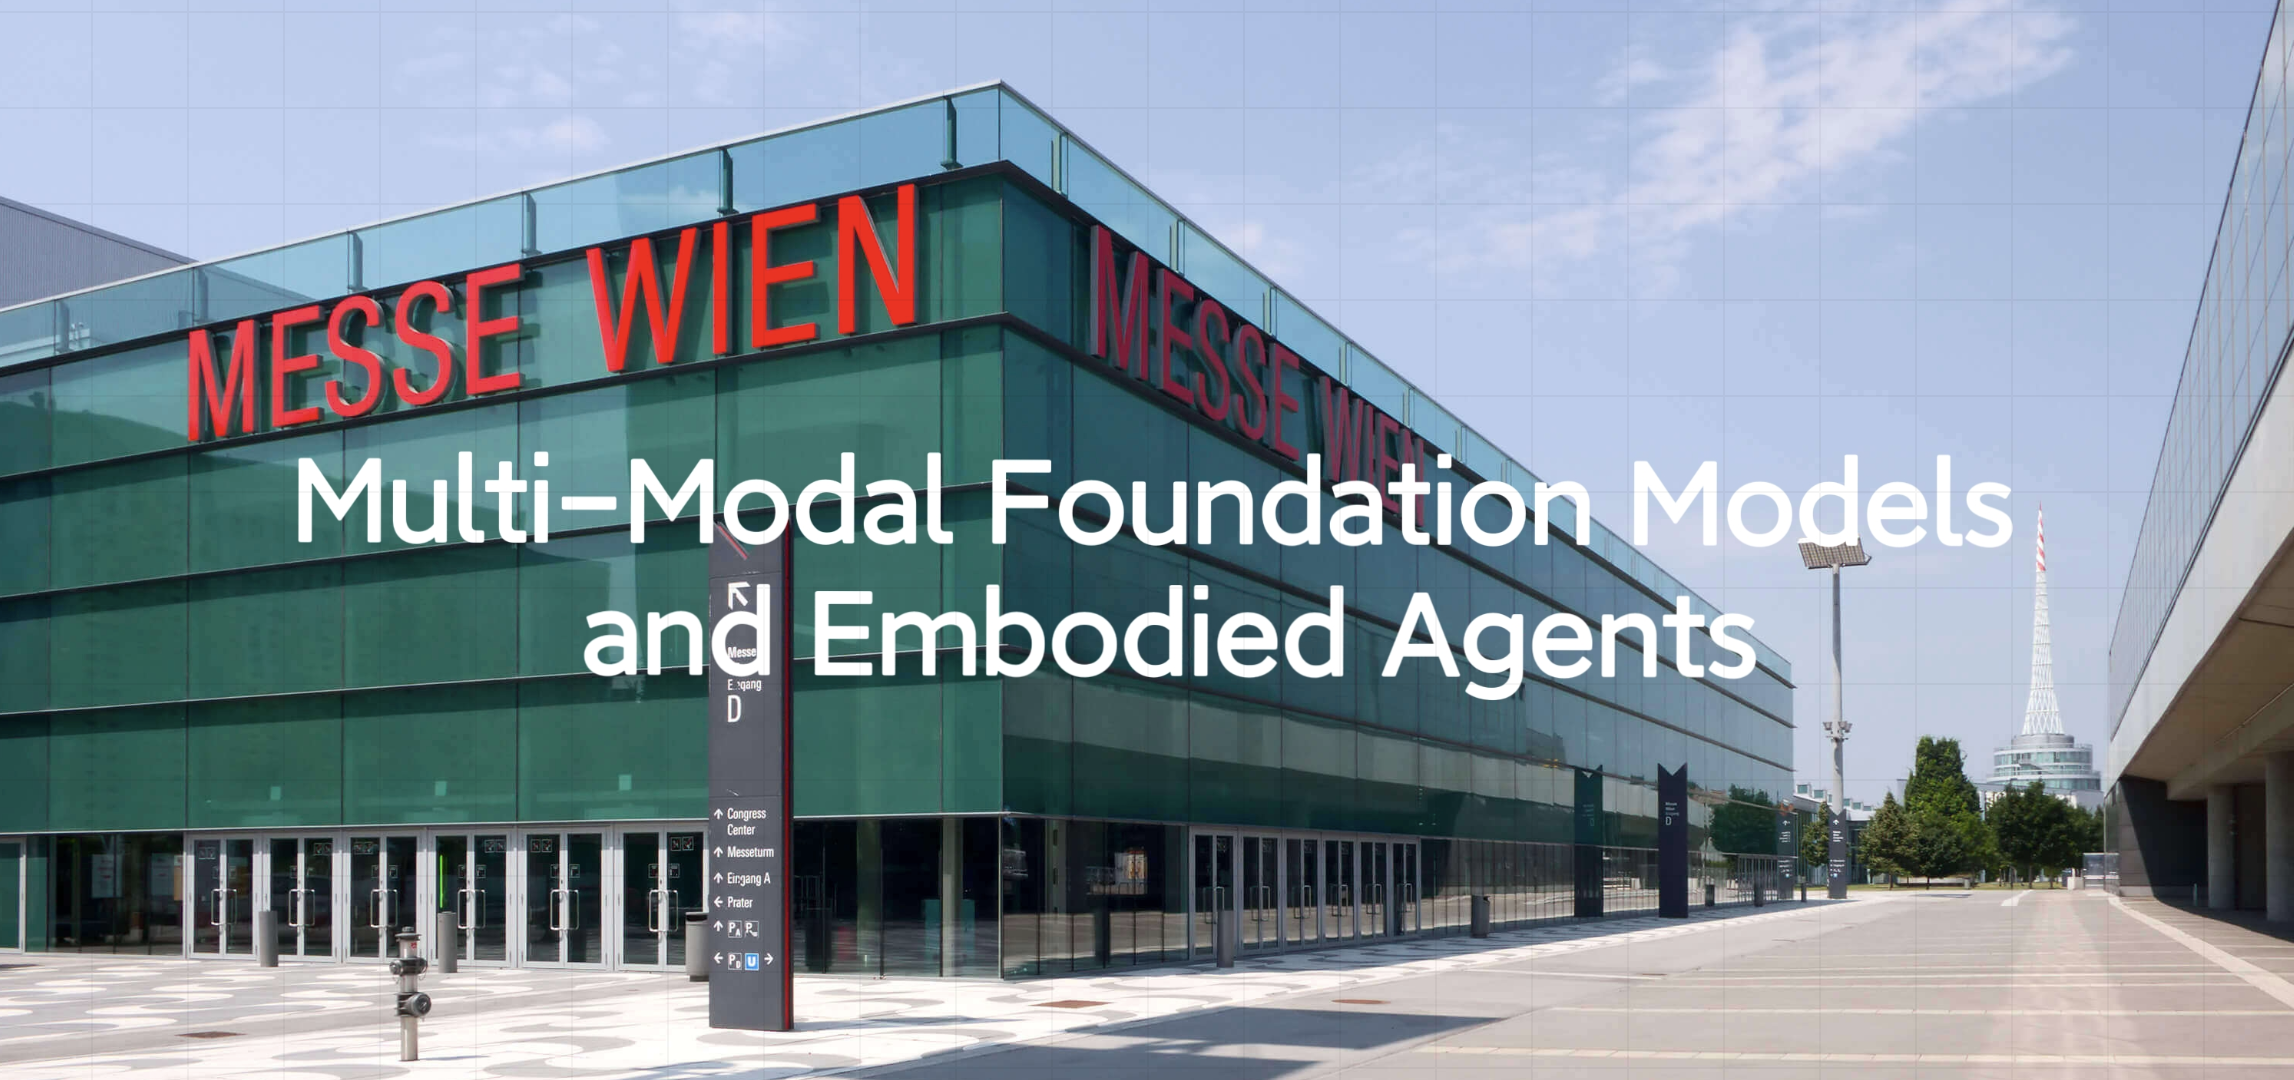
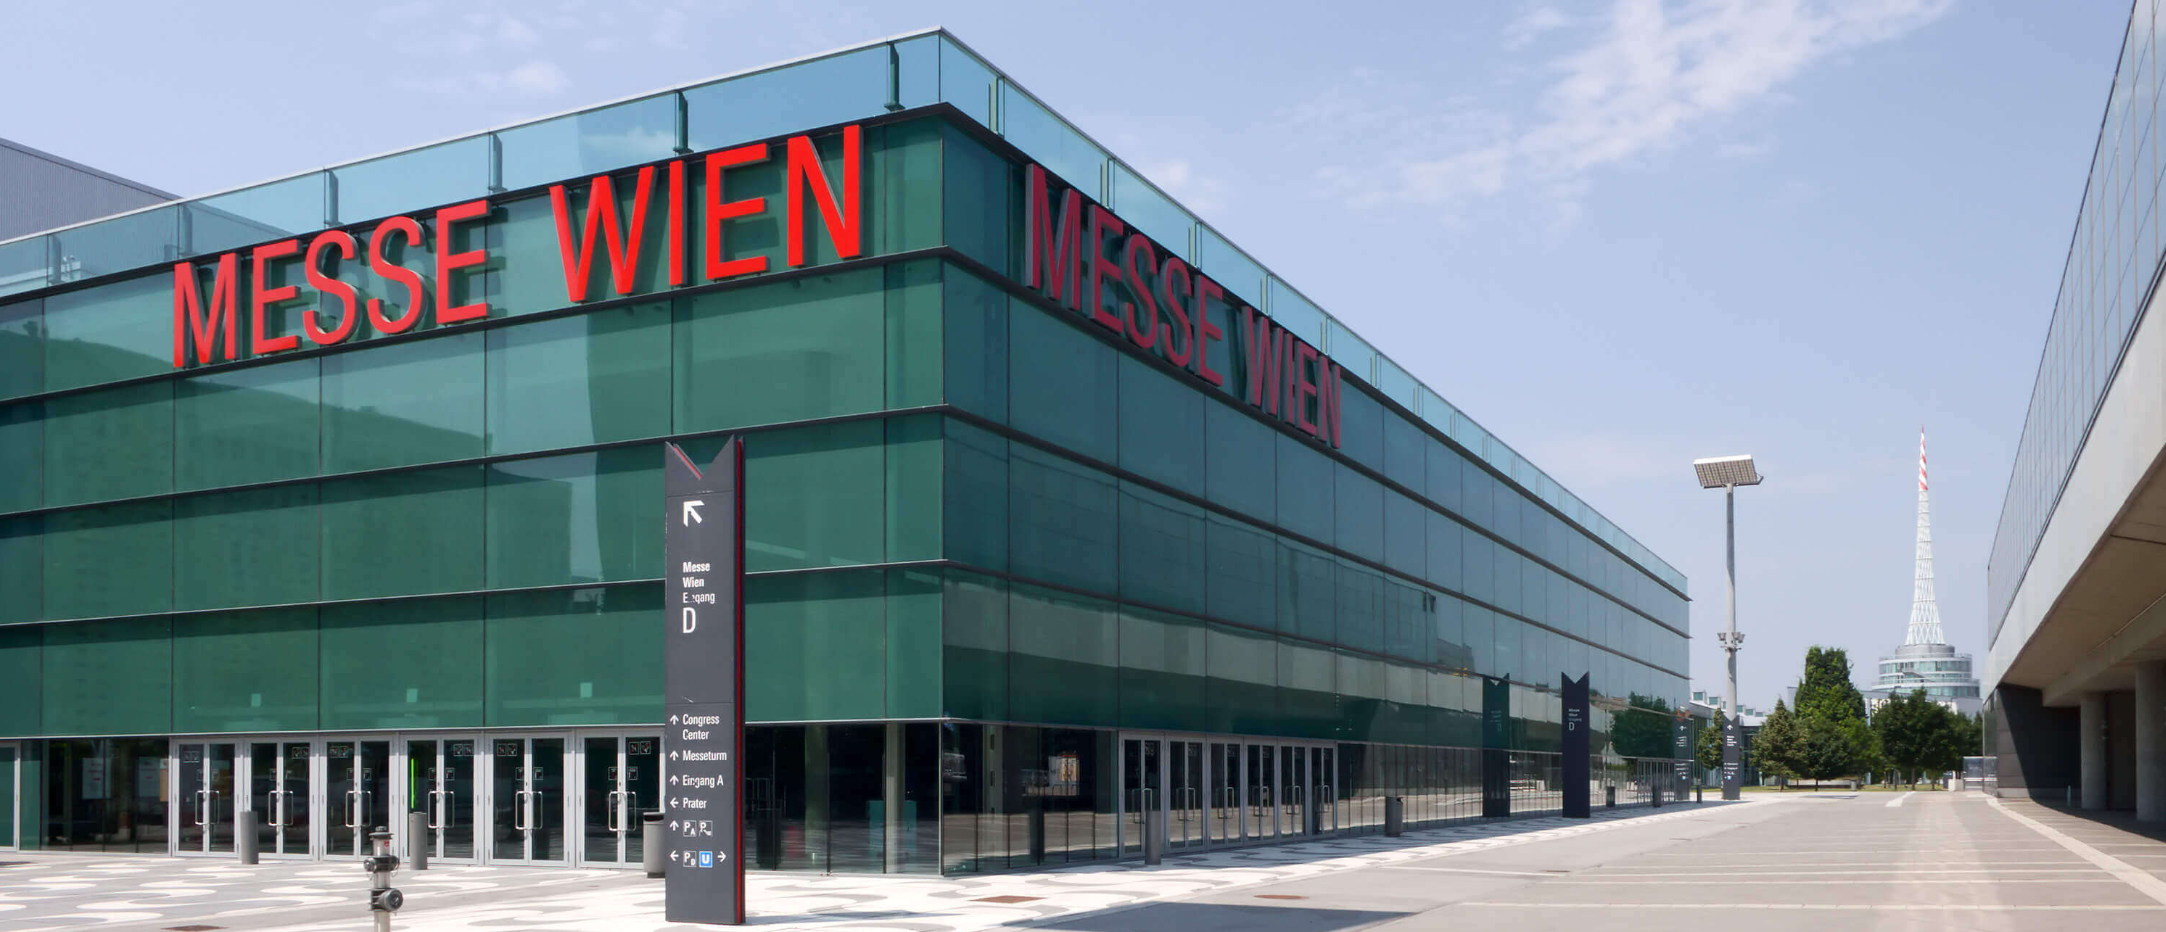
update a lot

diff --git a/src/pages/Research.tsx b/src/pages/Research.tsx
@@ -20,6 +20,7 @@ interface PAPER {
   pub: string;
   link: string;
   containerId: string;
+  tags: any;
 }
 const publications: PAPER[] = [
   {
@@ -28,20 +29,22 @@ const publications: PAPER[] = [
       'MP5: A Multi-modal Open-ended Embodied System in Minecraft via Active Perception',
     image: '/img/MP5.png',
     author:
-      'Yiran Qin*, Enshen Zhou*, Qichang Liu*, Zhenfei Yin, Lu Sheng†, Ruimao Zhang†, Yu Qiao, Jing Shao',
-    pub: 'CVPR(IEEE Conference on Computer Vision and Pattern Recognition) 2024',
+      'Yiran Qin*, Enshen Zhou*, Qichang Liu*, Zhenfei Yin, Lu Sheng†, Ruimao Zhang†, Yu Qiao, Jing Shao‡',
+    pub: 'CVPR (The IEEE/CVF Conference on Computer Vision and Pattern Recognition), 2024',
     link: 'https://iranqin.github.io/MP5.github.io/',
     containerId: 'MP5',
+    tags: ['Simulation', 'MineCraft', 'Planning', 'MLLM'],
   },
   {
     id: '/paper_list/Octavius',
     title: 'Octavius: Mitigating Task Interference in MLLMs via MoE',
     image: '/logo/Octavius_arch.png',
     author:
-      'Zeren Chen*, Ziqin Wang*, Zhen Wang*, Huayang Liu, Zhenfei Yin, Si Liu, Lu Sheng†, Wanli Ouyang, Yu Qiao, Jing Shao†',
-    pub: 'ICLR (INTERNATIONAL CONFERENCE ON LEARNING REPRESENTATIONS), 2024',
+      'Zeren Chen*, Ziqin Wang*, Zhen Wang*, Huayang Liu, Zhenfei Yin‡, Si Liu, Lu Sheng†, Wanli Ouyang, Yu Qiao, Jing Shao†',
+    pub: 'ICLR (The International Conference on Learning Representations), 2024',
     link: 'https://arxiv.org/abs/2306.06687',
     containerId: 'Octavius',
+    tags: ['MLLM', 'Trainning', '3D Vision'],
   },
   {
     id: 'https://arxiv.org/abs/2401.15071',
@@ -51,10 +54,11 @@ const publications: PAPER[] = [
       'From GPT-4 to Gemini and Beyond: Assessing the Landscape of MLLMs on Generalizability, Trustworthiness and Causality through Four Modalities',
     image: '/img/MLLMs.png',
     author:
-      'Chaochao Lu, Chen Qian, Guodong Zheng, Hongxing Fan, Hongzhi Gao, Jie Zhang, Jing Shao, Jingyi Deng, Jinlan Fu, Kexin Huang, Kunchang Li, Lijun Li, Limin Wang, Lu Sheng, Meiqi Chen, Ming Zhang, Qibing Ren, Sirui Chen, Tao Gui, Wanli Ouyang, Yali Wang, Yan Teng, Yaru Wang, Yi Wang, Yinan He, Yingchun Wang, Yixu Wang, Yongting Zhang, Yu Qiao, Yujiong Shen, Yurong Mou, Yuxi Chen, Zaibin Zhang, Zhelun Shi, Zhenfei Yin, Zhipin Wang',
-    pub: 'Arxiv, 2024',
+      'Chaochao Lu, Chen Qian, Guodong Zheng, Hongxing Fan, Hongzhi Gao, Jie Zhang, Jing Shao†, Jingyi Deng, Jinlan Fu, Kexin Huang, Kunchang Li, Lijun Li, Limin Wang, Lu Sheng, Meiqi Chen, Ming Zhang, Qibing Ren, Sirui Chen, Tao Gui, Wanli Ouyang, Yali Wang, Yan Teng, Yaru Wang, Yi Wang, Yinan He, Yingchun Wang, Yixu Wang, Yongting Zhang, Yu Qiao†, Yujiong Shen, Yurong Mou, Yuxi Chen, Zaibin Zhang, Zhelun Shi, Zhenfei Yin‡, Zhipin Wang',
+    pub: 'Technical Report, 2024',
     link: 'https://arxiv.org/abs/2401.15071',
     containerId: 'MLLMs',
+    tags: ['MLLM', 'Evaluation', 'Human Value', 'Casual Reasoning'],
   },
   {
     id: 'https://sites.google.com/view/rh20t-primitive/main',
@@ -62,10 +66,11 @@ const publications: PAPER[] = [
       'RH20T-P: A Primitive-Level Robotic Dataset Towards Composable Generalization Agents',
     image: '/img/rh20t.png',
     author:
-      'Zeren Chen, Zhelun Shi, Xiaoya Lu, Lehan He, Sucheng Qian, Hao Shu Fang, Zhenfei Yin, Wanli Ouyang, Jing Shao, Yu Qiao, Cewu Lu, Lu Sheng',
+      'Zeren Chen*, Zhelun Shi*, Xiaoya Lu*, Lehan He*, Sucheng Qian, Hao Shu Fang, Zhenfei Yin‡, Wanli Ouyang, Jing Shao†, Yu Qiao, Cewu Lu†, Lu Sheng†',
     pub: 'Arxiv 2024',
     link: 'https://sites.google.com/view/rh20t-primitive/main',
     containerId: 'rh20t',
+    tags: ['Robot Arm', 'Manipulation', 'MLLM', 'Planning', 'Executing'],
   },
   {
     id: 'https://openlamm.github.io/ch3ef/',
@@ -73,10 +78,11 @@ const publications: PAPER[] = [
       'Assessment of Multimodal Large Language Models in Alignment with Human Values',
     image: '/img/ch3ef.png',
     author:
-      'Zhelun Shi, Zhipin Wang, Hongxing Fan, Zaibin Zhang, Lijun Li, Yongting Zhang, Zhenfei Yin, Lu Sheng, Yu Qiao, Jing Shao',
+      'Zhelun Shi*, Zhipin Wang*, Hongxing Fan*, Zaibin Zhang, Lijun Li, Yongting Zhang, Zhenfei Yin, Lu Sheng†, Yu Qiao, Jing Shao†',
     pub: 'Arxiv 2024',
     link: 'https://openlamm.github.io/ch3ef/',
     containerId: 'ch3ef',
+    tags: ['MLLM', 'Evaluation', 'Human Value'],
   },
   {
     id: 'https://sites.google.com/view/minedreamer/main',
@@ -84,10 +90,11 @@ const publications: PAPER[] = [
       'MineDreamer: Learning to Follow Instructions via Chain-of-Imagination for Simulated-World Control ',
     image: '/img/mineDreamer.png',
     author:
-      'Enshen Zhou, Yiran Qin, Zhenfei Yin, Yuzhou Huang, Ruimao Zhang, Lu Sheng, Yu Qiao, Jing Shao',
+      'Enshen Zhou*, Yiran Qin*, Zhenfei Yin, Yuzhou Huang, Ruimao Zhang†, Lu Sheng†, Yu Qiao, Jing Shao‡',
     pub: 'Arxiv 2024',
     link: 'https://sites.google.com/view/minedreamer/main',
     containerId: 'mineDreamer',
+    tags: ['Simulation', 'MineCraft', 'MLLM', ' World Model', 'Executing'],
   },
   {
     id: '/paper_list/ChEF',
@@ -99,6 +106,7 @@ const publications: PAPER[] = [
     pub: 'Arxiv, 2023',
     link: 'https://arxiv.org/abs/2306.06687',
     containerId: 'ChEF',
+    tags: ['MLLM', 'Evaluation'],
   },
   {
     id: '/paper_list/LAMM',
@@ -107,9 +115,10 @@ const publications: PAPER[] = [
     image: '/img/LAMM.png',
     author:
       'Zhenfei Yin*, Jiong Wang*, JianJian Cao*, Zhelun Shi*,  Dingning Liu, Mukai Li, Lu Sheng, Lei Bai†, Xiaoshui Huang, Zhiyong Wang, Jing Shao†, Wanli Ouyang',
-    pub: 'NeurIPS(Conference on Neural Information Processing Systems), 2023, Datasets and Benchmarks Track',
+    pub: 'NeurIPS (The Annual Conference on Neural Information Processing Systems), 2023',
     link: 'https://arxiv.org/abs/2306.06687',
     containerId: 'LAMM',
+    tags: ['MLLM', 'Training', 'Evaluation', '3D Vision'],
   },
 ];
 function Publish({
@@ -119,6 +128,7 @@ function Publish({
   author,
   pub,
   link,
+  tags,
   containerId,
 }: (typeof publications)[0]) {
   return (
@@ -133,6 +143,16 @@ function Publish({
         <h4 className="mb-1 font-bold">{title}</h4>
         <p className="mb-0 text-sm text-text-400">{author}</p>
         <i className="mb-0 text-sm text-text-400">{pub}</i>
+        <div className="mt-2 flex flex-wrap gap-2">
+          {tags.map((tag, index) => (
+            <span
+              key={index}
+              className="rounded-full bg-primary px-2 py-1 text-xs font-semibold text-white"
+            >
+              {tag}
+            </span>
+          ))}
+        </div>
       </div>
 
       <ChevronRight className="ml-auto h-5 w-5 self-center opacity-0 transition-opacity group-hover:opacity-100" />

diff --git a/src/pages/People.jsx b/src/pages/People.jsx
@@ -149,6 +149,13 @@ const Team = [
       'https://scholar.google.com/citations?hl=zh-CN&user=fdDOA-0AAAAJ',
   },
   {
+    image: '/img/group/fhs.png',
+    imgWidth: '110%',
+    name: 'Haoshu Fang',
+    organization: 'MIT',
+    homepageLink: 'https://fang-haoshu.github.io/',
+  },
+  {
     image: '/img/group/lxy.png',
     imgWidth: '110%',
     name: 'Xiaoya Lu',
@@ -192,6 +199,14 @@ const Team = [
 
 const advisor = [
   {
+    image: '/img/group/sl.jpg',
+    name: 'Lu Sheng',
+    organization: 'Beihang University',
+    githubLink: '',
+    twitter: 'https://twitter.com/SHENGLui1989',
+    homepageLink: 'https://scholar.google.com.hk/citations?user=_8lB7xcAAAAJ',
+  },
+  {
     image: '/img/group/sj.jpg',
     // imgWidth: '113%',
     name: 'Jing Shao',
@@ -201,12 +216,12 @@ const advisor = [
     homepageLink: 'https://amandajshao.github.io/',
   },
   {
-    image: '/img/group/sl.jpg',
-    name: 'Lu Sheng',
-    organization: 'Beihang University',
+    image: '/img/group/lcw.png',
+    // imgWidth: '113%',
+    name: 'Cewu Lu',
+    organization: 'Shanghai Jiao Tong University',
     githubLink: '',
-    twitter: 'https://twitter.com/SHENGLui1989',
-    homepageLink: 'https://scholar.google.com.hk/citations?user=_8lB7xcAAAAJ',
+    homepageLink: 'https://www.mvig.org/',
   },
   {
     image: '/img/group/zrm.png',
@@ -217,15 +232,6 @@ const advisor = [
     homepageLink: 'http://zhangruimao.site/',
   },
   {
-    image: '/img/group/qy.jpg',
-    name: 'Yu Qiao',
-    imgWidth: '100%',
-    organization: 'Shanghai AI Laboratory',
-    githubLink: '',
-    homepageLink:
-      'https://scholar.google.com/citations?hl=zh-CN&user=gFtI-8QAAAAJ',
-  },
-  {
     image: '/img/group/oywl.jpg',
     // imgWidth: '110%',
     name: 'Wanli Ouyang',
@@ -233,6 +239,15 @@ const advisor = [
     twitter: 'https://twitter.com/ouyang_wanli',
     githubLink: '',
     homepageLink: 'https://wlouyang.github.io/',
+  },
+  {
+    image: '/img/group/qy.jpg',
+    name: 'Yu Qiao',
+    imgWidth: '100%',
+    organization: 'Shanghai AI Laboratory',
+    githubLink: '',
+    homepageLink:
+      'https://scholar.google.com/citations?hl=zh-CN&user=gFtI-8QAAAAJ',
   },
 ];
 

diff --git a/src/components/homepage/HeroSection.tsx b/src/components/homepage/HeroSection.tsx
@@ -97,8 +97,13 @@ export default function HeroSection() {
   return (
     <>
       <section className="no-underline-links lg:py-0" id="HeroSection">
-        <div>
-          <img src="/img/bg.jpg"></img>
+        <div className="relative mx-auto">
+          <img src="/img/bg.jpg" className="h-100 w-full object-cover" />
+          <div className="absolute inset-0 flex items-center justify-center">
+            <span className="text-6xl font-bold text-white">
+              Multi-Modal Founndation Models and Embodied Agents
+            </span>
+          </div>
         </div>
         <div className="flex flex-row items-center justify-between py-14 px-4">
           {/* <h2 className="mb-8 max-w-5xl text-center font-jakarta text-5xl font-bold">

diff --git a/src/pages/Events.jsx b/src/pages/Events.jsx
@@ -51,7 +51,7 @@ function Event({
     <Link
       to={id}
       id={containerId}
-      className="group flex cursor-pointer items-start gap-2 rounded-lg border-2 border-transparent p-3 text-inherit transition-colors hover:border-primary hover:text-primary"
+      className="group flex cursor-pointer items-start gap-2 rounded-lg border-2 border-solid border-gray-500 border-transparent p-3 text-inherit transition-colors hover:border-primary hover:text-primary"
     >
       <img src={image} className="paper_image" />
 

diff --git a/docusaurus.config.js b/docusaurus.config.js
@@ -153,10 +153,10 @@ const config = {
             label: 'Events',
             to: 'Events',
           },
-          {
-            label: 'Blog',
-            to: 'Blog',
-          },
+          // {
+          //   label: 'Blog',
+          //   to: 'Blog',
+          // },
           {
             label: 'Code',
             to: 'https://github.com/OpenGVLab/LAMM',
